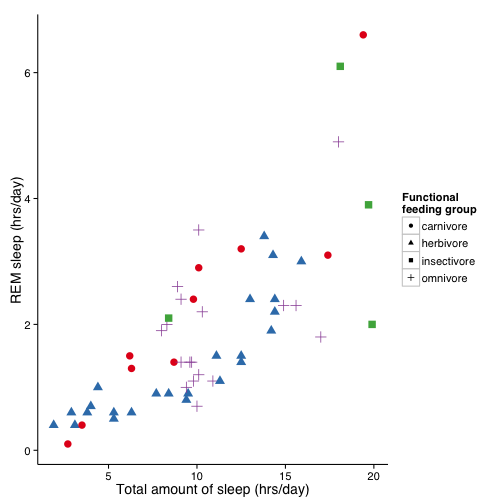
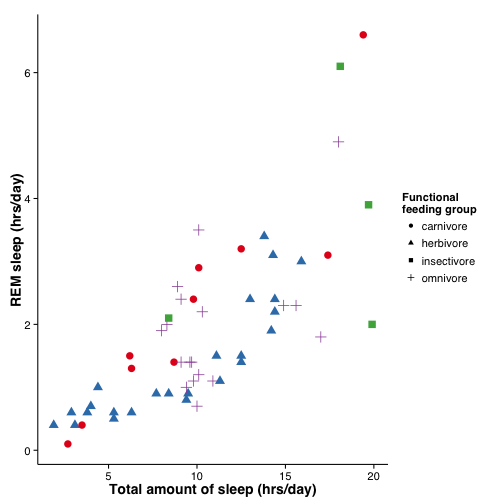
removed warnings + improved publ quality figure

diff --git a/ProgrammingExercisesSol.md b/ProgrammingExercisesSol.md
@@ -1,4 +1,12 @@
 
+```r
+# Set eval=TRUE to hide all results and figures.
+# This sets defaults. Can change this manually in individual chunks.
+# Must load knitr so opts_chunk is in search path.
+library(knitr)
+#opts_chunk$set(results="hide", fig.show="hide", fig.keep="none", fig.path='Figs/', fig.width=12, fig.height=8)
+opts_chunk$set(fig.width=12, fig.height=8, warning=FALSE, message=FALSE)
+```
 
 # Programming Exercises
 
@@ -101,10 +109,6 @@ qplot(data=msleep, log(bodywt), log(sleep_total))
 qplot(data=msleep, log(brainwt), log(sleep_total))
 ```
 
-```
-## Warning: Removed 27 rows containing missing values (geom_point).
-```
-
 ![plot of chunk unnamed-chunk-6](figure/unnamed-chunk-6-2.png) 
 
 ```r
@@ -117,11 +121,6 @@ with(msleep, cor(log(bodywt), log(sleep_total), method = "spearman"))
 
 ```r
 with(msleep, cor.test(log(bodywt), log(sleep_total), method = "spearman"))
-```
-
-```
-## Warning in cor.test.default(log(bodywt), log(sleep_total), method =
-## "spearman"): Cannot compute exact p-value with ties
 ```
 
 ```
@@ -142,10 +141,6 @@ with(msleep, cor.test(log(bodywt), log(sleep_total), method = "spearman"))
 qplot(data=msleep, sleep_total, sleep_rem)
 ```
 
-```
-## Warning: Removed 22 rows containing missing values (geom_point).
-```
-
 ![plot of chunk unnamed-chunk-7](figure/unnamed-chunk-7-1.png) 
 
 ### 4. Make point size proportional to log(body mass)
@@ -154,24 +149,12 @@ qplot(data=msleep, sleep_total, sleep_rem)
 qplot(data=msleep, sleep_total, sleep_rem, size=log(bodywt))
 ```
 
-```
-## Warning: Removed 22 rows containing missing values (geom_point).
-```
-
 ![plot of chunk unnamed-chunk-8](figure/unnamed-chunk-8-1.png) 
 
 ### 5. Add a OLS (Ordinary least square) regression line
 
 ```r
 qplot(data=msleep, sleep_total, sleep_rem, size=log(bodywt)) + stat_smooth(method = 'lm')
-```
-
-```
-## Warning: Removed 22 rows containing missing values (stat_smooth).
-```
-
-```
-## Warning: Removed 22 rows containing missing values (geom_point).
 ```
 
 ![plot of chunk unnamed-chunk-9](figure/unnamed-chunk-9-1.png) 
@@ -193,46 +176,18 @@ table(msleep$vore)
 qplot(data=msleep, sleep_total, sleep_rem, size=log(bodywt), col=vore) + stat_smooth(se=FALSE, method='lm')
 ```
 
-```
-## Warning: Removed 9 rows containing missing values (stat_smooth).
-```
-
-```
-## Warning: Removed 8 rows containing missing values (stat_smooth).
-```
-
-```
-## Warning: Removed 1 rows containing missing values (stat_smooth).
-```
-
-```
-## Warning: Removed 2 rows containing missing values (stat_smooth).
-```
-
-```
-## Warning: Removed 2 rows containing missing values (stat_smooth).
-```
-
-```
-## Warning: Removed 22 rows containing missing values (geom_point).
-```
-
 ![plot of chunk unnamed-chunk-10](figure/unnamed-chunk-10-1.png) 
 
-### (advanced) 7. Make the figure from the question 6 in publication quality (Axes labels, font sizes, ..)
+### 7. (advanced) Make the figure from the question 6 in publication quality (Axes labels, font sizes, ..)
 
 ```r
-#using colors from the RColorBrewer library
-qplot(data=msleep, sleep_total, sleep_rem, col=vore, size=3, shape=vore) + xlab("Total amount of sleep (hrs/day)") + ylab("REM sleep (hrs/day)") + theme_classic(base_size = 14, base_family = "Helvetica") + scale_shape(name = "Functional\nfeeding group", labels = c("carnivore","herbivore","insectivore","omnivore")) + guides(size = FALSE, col = FALSE) + scale_colour_brewer(palette="Set1")
-```
-
-```
-## Warning: Removed 27 rows containing missing values (geom_point).
+#using Set1 colors from the RColorBrewer library
+qplot(data=msleep, sleep_total, sleep_rem, col=vore, size=3, shape=vore) + xlab("Total amount of sleep (hrs/day)") + ylab("REM sleep (hrs/day)") + theme_classic(base_size = 14, base_family = "Helvetica") + scale_shape(name = "Functional\nfeeding group", labels = c("carnivore","herbivore","insectivore","omnivore")) + guides(size = FALSE, col = FALSE) + scale_colour_brewer(palette="Set1") + theme(axis.title.x = element_text(face="bold"), axis.title.y = element_text(face="bold"), legend.key = element_blank()) 
 ```
 
 ![plot of chunk unnamed-chunk-11](figure/unnamed-chunk-11-1.png) 
 
-The graph is still not perfect, e.g. as the legend is small and not colored. But often it is faster and more convenient to do make small changes manually using graphics software. Here I would save the plot as svg and make the last improvements using Inkscape (or Illustrator on svg or pdf).
+The graph is still not perfect, e.g. as the legend is too small and not colored. But often it is faster and more convenient to make small changes manually using graphics software. Here I would save the plot as svg/pdf and make the last improvements using Inkscape (or Illustrator).
 
 
 Original publication in [PNAS](http://www.pnas.org/content/104/3/1051.abstract)
@@ -426,7 +381,7 @@ are given.
 It contains 5 variables: year, name, soundex, sex and proportion
 
 Download bnames2.csv.bz2 from http://stat405.had.co.nz/data/bnames2.csv.bz2
-(Under Windows download the zipped file [bnames2.csv.zip](bnames2.csv.zip) and extract it before reading)
+(Under Windows download the zipped file [bnames2.csv.zip](https://www.dropbox.com/s/hax6jullt8a9kd7/bnames2.csv.zip?dl=0) and extract it before reading)
 
 You can directly read in the compressed file like (on Linux and Mac OS)
 
@@ -438,14 +393,6 @@ Also load a file containing the total number of birth per years (for boys and gi
 
 ```r
 births <- read.csv("http://stat405.had.co.nz/data/births.csv")
-```
-
-```
-## Warning in file(file, "rt"): kann 'stat405.had.co.nz' nicht auflösen
-```
-
-```
-## Error in file(file, "rt"): kann Verbindung nicht öffnen
 ```
 
 
@@ -473,12 +420,14 @@ Plotting the frequency of Stefan from 1880 to 2008.
 
 ```r
 bnames.Stefan <- subset(bnames, name=="Stefan")
+#using plot
 plot(bnames.Stefan$year, bnames.Stefan$prop, type="l")
 ```
 
 ![plot of chunk unnamed-chunk-24](figure/unnamed-chunk-24-1.png) 
 
 ```r
+#or using qplot
 qplot(bnames.Stefan$year, bnames.Stefan$prop, geom="line")
 ```
 
@@ -537,7 +486,7 @@ qplot(year, prop, color=name, data=subset(bnames, name %in% c("Steven","Stefan",
 
 ![plot of chunk unnamed-chunk-27](figure/unnamed-chunk-27-1.png) 
 
-### (advanced) 4. Which boy and girl name was used most over the whole time? 
+### 4. (advanced) Which boy and girl name was used most over the whole time? 
 
 We need to sum up the absolute births over the years. First we add a variable AbsBirths
 
@@ -547,13 +496,6 @@ for (i in 1:nrow(bnames)) {
   totalNumber <- subset(births, year == bnames$year[i] & sex == bnames$sex[i])$births
   AbsNumber[i] <- round(bnames$prop[i] * totalNumber)
 }
-```
-
-```
-## Error in subset(births, year == bnames$year[i] & sex == bnames$sex[i]): Objekt 'births' nicht gefunden
-```
-
-```r
 bnames$AbsBirths <- AbsNumber
 ```
 
@@ -566,7 +508,7 @@ head(counts)
 
 ```
 ##   Aaden Aaliyah   Aarav   Aaron      Ab Abagail 
-##       0       0       0       0       0       0
+##     959   39665     219  509464      25    2682
 ```
 
 ```r
@@ -574,8 +516,8 @@ head(sort(decreasing = TRUE, counts))
 ```
 
 ```
-##   Aaden Aaliyah   Aarav   Aaron      Ab Abagail 
-##       0       0       0       0       0       0
+##   James    John  Robert Michael    Mary William 
+## 5043259 5036828 4771447 4226596 4111514 3966170
 ```
 
 Alternatively we could use the ddply() function:
@@ -593,7 +535,7 @@ counts["Stefan"]
 
 ```
 ## Stefan 
-##      0
+##  16180
 ```
 
 ```r
@@ -601,56 +543,53 @@ sum(subset(bnames, name == "Stefan")$AbsBirths)
 ```
 
 ```
-## [1] 0
+## [1] 16180
 ```
 
-### (advanced) 5. Did first names became shorter over time? 
-bnames$length <- nchar(bnames$name)
+### 5. (advanced) Did first names became shorter over time? 
+
+```r
+bnames$length <- nchar(as.character(bnames$name))
 bnames.1880ies <- subset(bnames, year >= 1880 & year < 1890)
 sum.1880 <- sum(tapply(bnames.1880ies$AbsBirths, bnames.1880ies$length, sum))
 tapply(bnames.1880ies$AbsBirths, bnames.1880ies$length, sum)/sum.1880*100
+```
+
+```
+##           2           3           4           5           6           7 
+##  0.14437353  5.26493274 21.41203578 25.25700995 27.00486984 12.78526830 
+##           8           9          10          11 
+##  4.67586367  3.25381577  0.16606090  0.03576953
+```
+
+```r
 bnames.1990ies <- subset(bnames, year >= 1990 & year < 2000)
 sum.1990 <- sum(tapply(bnames.1990ies$AbsBirths, bnames.1990ies$length, sum))
 tapply(bnames.1990ies$AbsBirths, bnames.1990ies$length, sum)/sum.1990*100
+```
 
-Calculating it for all years is a bit more tricky as we need a weighted eman and can't use tapply. Either we do it with a for loop or we can use the `ddply()` function from the `plyr` package. See also this [Stackoverflow post](http://stackoverflow.com/questions/18392408/how-to-use-ddply-to-get-weighted-mean-of-class-in-dataframe)
+```
+##           2           3           4           5           6           7 
+##  0.03516489  1.09903596 11.12727404 22.25646220 27.59255218 22.52092668 
+##           8           9          10          11 
+##  8.91371073  4.95157188  0.38593984  1.11736159
+```
+
+Calculating it for all years is a bit more tricky as we need a weighted mean and can't use tapply for that purpose. Either we do it with a for loop or we can use the `ddply()` function from the `plyr` package. See also this [Stackoverflow post](http://stackoverflow.com/questions/18392408/how-to-use-ddply-to-get-weighted-mean-of-class-in-dataframe)
 
 
 ```r
 bnames.girls <- subset(bnames, sex=="girl")[, c(1,6,7)]
-```
-
-```
-## Error in `[.data.frame`(subset(bnames, sex == "girl"), , c(1, 6, 7)): undefined columns selected
-```
-
-```r
 plot(ddply(bnames.girls, .(year), summarize, x = weighted.mean(length, AbsBirths)), type='l', ylab="Mean Length")
-```
-
-```
-## Error in empty(.data): Objekt 'bnames.girls' nicht gefunden
-```
-
-```r
 bnames.boys <- subset(bnames, sex=="boy")[, c(1,6,7)]
-```
-
-```
-## Error in `[.data.frame`(subset(bnames, sex == "boy"), , c(1, 6, 7)): undefined columns selected
-```
-
-```r
 lines(col="red", ddply(bnames.boys, .(year), summarize, x = weighted.mean(length, AbsBirths)))
 ```
 
-```
-## Error in empty(.data): Objekt 'bnames.boys' nicht gefunden
-```
+![plot of chunk unnamed-chunk-33](figure/unnamed-chunk-33-1.png) 
 
 First names have become longer in the US over time. Interestingly, girls' names (in black) are more variable in length than boys' names (in red). 
 
-### (advanced) 6. Which names became very rare after 1944? 
+### 6. (advanced) Which names became very rare after 1944? 
 
 
 ```r
@@ -670,13 +609,13 @@ head(bnames.counts[order(decreasing = FALSE, bnames.counts$RankProd), 1:3])
 ```
 
 ```
-##    Row.names counts.before1944 counts.from1944
-## 4      Aaron                 0               0
-## 9      Abbie                 0               0
-## 12      Abby                 0               0
-## 16       Abe                 0               0
-## 17      Abel                 0               0
-## 20   Abigail                 0               0
+##      Row.names counts.before1944 counts.from1944
+## 490       Arlo              2104              43
+## 2354    Farris               676              43
+## 4579   Marshal               366              43
+## 2789   Haskell              2541              44
+## 4180 Llewellyn              1470              46
+## 1963    Earlie               896              46
 ```
 
 ```r
@@ -685,16 +624,16 @@ head(bnames.counts[order(decreasing = TRUE, bnames.counts$RankProd), 1:3])
 ```
 
 ```
-##    Row.names counts.before1944 counts.from1944
-## 4      Aaron                 0               0
-## 9      Abbie                 0               0
-## 12      Abby                 0               0
-## 16       Abe                 0               0
-## 17      Abel                 0               0
-## 20   Abigail                 0               0
+##      Row.names counts.before1944 counts.from1944
+## 5664      Ryan                10          850573
+## 2216      Erin                 9          307579
+## 1189     Chase                 5          108247
+## 1808     Diego                 5           69650
+## 1353      Cody                24          266989
+## 6385     Tyler                38          532129
 ```
 
-### (advanced) 7. Think of another question you could answer with the dataset. E.g. Identify the most popular firstname in 1980ies the or identify the most popular name that was used for boys and girls.
+### 7. (advanced) Think of another question you could answer with the dataset. E.g. Identify the most popular firstname in 1980ies the or identify the most popular name that was used for boys and girls.
 
 
 ***
